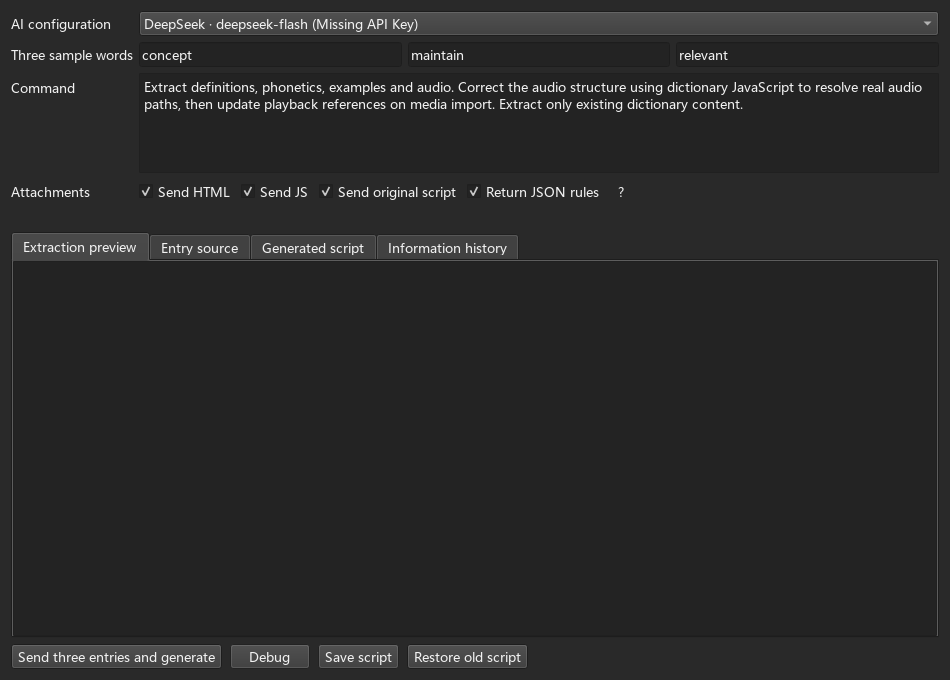
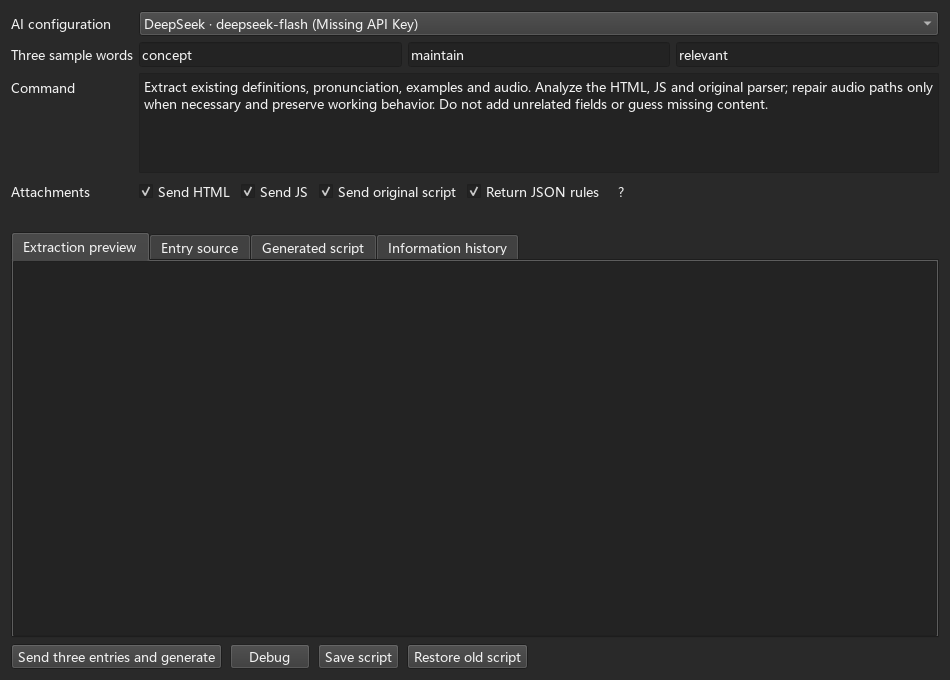
Fix script generation history and simplify output format help

Changed region(s): [[0.1526, 0.1235, 0.9768, 0.1853]]

diff --git a/src/gui/script_generator.py b/src/gui/script_generator.py
@@ -30,7 +30,7 @@ from ..service.script_information import request_record, redact, compact_history
 from ..service.script_debug import debug_exports
 from ..service.python_scripts import PYTHON_INSTRUCTIONS, parse_python
 
-DEFAULT_COMMAND = '提取释义、音标、例句和发音；纠正发音结构，结合词典 JS 还原真实音频路径，导入媒体库后同步更新播放引用。只提取词典已有内容。'
+DEFAULT_COMMAND = '提取词典已有的释义、音标、例句和发音。结合 HTML、JS 和原脚本分析结构；仅在需要时修复音频路径，保留已正常工作的处理。不要添加无关字段；无法确定的内容不要猜测。'
 
 
 CHAT_INSTRUCTIONS = INSTRUCTIONS.replace('Return only JSON:', 'When changing extraction rules, return only JSON:').replace(
@@ -131,11 +131,11 @@ class Generation:
             prompt_data = hide_local_paths(prompt_data, self.path)
             prompt = json.dumps(prompt_data, ensure_ascii=False)
             instructions = (CHAT_INSTRUCTIONS if self.message else INSTRUCTIONS) if self.return_json else PYTHON_INSTRUCTIONS
-            history = redact(self.history, self.connection.key)
+            history = hide_local_paths(redact(self.history, self.connection.key), self.path)
             payload = request_payload(self.connection.profile, prompt, instructions, history=history)
             record = request_record(self.connection.profile.get('model', ''), instructions, prompt_data, payload,
                                     self.message or self.command, dictionary_identity(self.path))
-            record['context'] = {'history_turns': len(history) // 2, 'request_characters': len(json.dumps(payload, ensure_ascii=False)),
+            record['context'] = {'history_messages': len(history), 'request_characters': len(json.dumps(payload, ensure_ascii=False)),
                                  'attachments_not_repeated_in_history': True}
             record = self._record(record)
             if self.on_prepared:
@@ -197,6 +197,8 @@ class Generation:
             return result
         except Exception as error:
             detail = {'error_type': type(error).__name__, 'error': str(error), 'traceback': traceback.format_exc()}
+            if isinstance(error, AIError):
+                detail['error_code'] = error.code
             if record:
                 record.update(state='failed', error=str(error), local={**record.get('local', {}), **detail})
                 record = self._record(record)
@@ -306,7 +308,7 @@ class ScriptGeneratorDialog(Dialog):
         form.addRow(tr('三个样本词'), words)
         self.command = QPlainTextEdit()
         self.command.setPlainText(tr(DEFAULT_COMMAND))
-        self.command.setPlaceholderText(tr('直接描述希望 AI 提取什么。留空使用默认命令，包括纠正发音结构。'))
+        self.command.setPlaceholderText(tr('描述希望提取或修复的内容，留空使用默认要求。'))
         self.command.setMinimumHeight(75)
         self.command.setMaximumHeight(100)
         self.command.setInputMethodHints(Qt.InputMethodHint.ImhNone)
@@ -444,7 +446,7 @@ class ScriptGeneratorDialog(Dialog):
         self._operation_kind = 'chat' if message else 'generate'
         operation = Generation(self.dict_path, unique, words, None, command, attachments,
                                self.script_paths, self.class_name,
-                               history=self.selected_history() if message else [],
+                               history=self.selected_history(),
                                message=message, current=self.result, debug=False,
                                record_directory=None,
                                debug_result=None, session_id=self.session_id,
@@ -471,8 +473,8 @@ class ScriptGeneratorDialog(Dialog):
             return
         self.add_information(record)
         context = record.get('context', {})
-        self.status.setText(tr('正在等待 AI；携带 %s 轮历史，请求正文约 %s 个字符（字符数不是 Token 数）。') %
-                            (context.get('history_turns', 0), context.get('request_characters', 0)))
+        self.status.setText(tr('正在等待 AI；携带 %s 条历史消息，请求正文约 %s 个字符（字符数不是 Token 数）。') %
+                            (context.get('history_messages', 0), context.get('request_characters', 0)))
 
     def begin_debug(self):
         if self.loader or not self.result or self.token != profile_token():
@@ -793,25 +795,10 @@ class ScriptGeneratorDialog(Dialog):
                 widget.setEnabled(True)
 
     def show_output_help(self):
-        content = tr(
-            '在“命令”中描述需求；解析不使用连接的 Skill。默认样本各选名词、动词、形容词，'
-            '找不到时自动选备选词。附件按勾选发送，缺失的跳过，JS 和原脚本去重。\n\n'
-            '勾选（默认）：AI 返回 JSON 规则，插件生成 Python 脚本。'
-            '适合常规字段提取和支持的音频路径修复；格式统一，可检查规则并预览提取结果，'
-            '但不能自由编写复杂逻辑。\n\n'
-            '不勾选：AI 直接返回完整 Python 脚本。'
-            '适合嵌套内容重组、复杂音频路径处理和修改原脚本，灵活性更高。'
-            '生成时仅检查语法和结构，不代表运行正确或安全；'
-            '查看源码后点击“调试”运行测试；保存后加载脚本也会执行代码。\n\n'
-            '两种方式最终保存的都是 .py 脚本。新脚本默认不启用；更新原脚本先备份旧版。\n\n'
-            '信息历史只保留在当前窗口，关闭后不保存；可主动复制或导出 Markdown。'
-            '可导入 TXT／Markdown 对话作为上下文。默认“携带全部消息”；选择“携带勾选的消息”时只发送右侧勾选的消息，未勾选则不携带历史。'
-            '新消息默认不勾选。携带历史会增加 Token 消耗，过长可能超过模型限制；用户消息的附件只在当前请求中发送。\n\n'
-            '每次点击“调试”检查三个样本，详情显示在信息历史。消息右侧勾选框用于选择复制，展开按钮在消息后面。'
-            '点击“恢复旧脚本”查看名称与删除时间，在列表中选择恢复或只读打开；旧版本保留七天。'
-            '关闭窗口会停止接收本次结果；已经发出的请求仍可能产生费用。')
+        content = tr('勾选（默认）：AI 返回 JSON 规则，由插件生成 Python 脚本。适合常规提取和简单音频路径修复，可预览结果，复杂逻辑受规则限制。\n\n'
+                     '不勾选：AI 直接生成 Python 脚本。适合嵌套内容和复杂处理，灵活性更高；生成时只检查语法和结构，需查看代码并调试。')
         dialog = Dialog(self, tr('输出方式说明'))
-        dialog.resize(660, 480)
+        dialog.resize(560, 240)
         layout = QVBoxLayout(dialog)
         viewer = QTextBrowser()
         viewer.setPlainText(content)

diff --git a/tests/test_script_generation.py b/tests/test_script_generation.py
@@ -23,6 +23,60 @@ import test_modularization as support
 
 @unittest.skipUnless(real_soup and importlib.util.find_spec('PyQt6'), 'Qt/BeautifulSoup not installed')
 class ScriptGenerationTests(unittest.TestCase):
+    def test_generation_and_chat_both_respect_history_selection(self):
+        module = self.host.load('gui.script_generator')
+        for chat in (False, True):
+            for selected in (False, True):
+                with self.subTest(chat=chat, selected=selected):
+                    dialog = module.ScriptGeneratorDialog(None, 'sample.mdx')
+                    self.host.widgets.append(dialog)
+                    dialog.add_information({'kind': 'request', 'user_message': 'earlier question',
+                                            'request': {}, 'response': 'earlier reply'})
+                    if selected:
+                        dialog.send_selected.setChecked(True)
+                        dialog.toggle_message(module.QUrl('select:0-assistant'))
+                    with patch.object(module, 'ScriptOperationThread'), \
+                            patch.object(module, 'Generation', wraps=module.Generation) as generation:
+                        dialog._begin_request('follow up' if chat else '')
+                    expected = [{'role': 'assistant', 'content': 'earlier reply'}]
+                    if not selected:
+                        expected.insert(0, {'role': 'user', 'content': 'earlier question'})
+                    self.assertEqual(generation.call_args.kwargs['history'], expected)
+                    dialog.loader = None
+
+    def test_output_help_only_explains_the_two_formats(self):
+        module = self.host.load('gui.script_generator')
+        dialog = module.ScriptGeneratorDialog(None, 'sample.mdx')
+        self.host.widgets.append(dialog)
+        content = []
+        def inspect_help(window):
+            content.append(window.findChild(module.QTextBrowser).toPlainText())
+        with patch.object(module.Dialog, 'exec', inspect_help):
+            dialog.show_output_help()
+        self.assertIn('勾选（默认）', content[0])
+        self.assertIn('不勾选', content[0])
+        self.assertNotIn('信息历史', content[0])
+        self.assertLess(len(content[0]), 240)
+
+    def test_history_paths_are_hidden_and_messages_are_counted_individually(self):
+        module = self.host.load('gui.script_generator')
+        base = self.host.load('service.base')
+        fake = types.SimpleNamespace(support=True, builder=self.builder)
+        local_root = str(Path('sample.mdx').resolve().parent)
+        history = [{'role': 'user', 'content': local_root + '/parser.py'},
+                   {'role': 'assistant', 'content': 'earlier reply'},
+                   {'role': 'user', 'content': json.dumps({'traceback': local_root + '\\parser.py'})}]
+        with patch.object(base, 'MdxService', return_value=fake), \
+                patch.object(module, 'request_ai_text', return_value=json.dumps(self.rules)) as request:
+            result = module.Generation('sample.mdx', 'ai:test', [], self.names, history=history).load_services()
+        self.assertNotIn('error', result, result)
+        sent = request.call_args.kwargs['history']
+        self.assertNotIn(local_root, sent[0]['content'])
+        self.assertIn('parser.py', sent[0]['content'])
+        self.assertNotIn(json.dumps(local_root)[1:-1], sent[2]['content'])
+        self.assertEqual(result['record']['context']['history_messages'], 3)
+        self.assertEqual(history[0]['content'], local_root + '/parser.py')
+
     def test_python_response_is_checked_without_execution_and_prompts_follow_mode(self):
         module = self.host.load('gui.script_generator')
         base = self.host.load('service.base')
@@ -383,7 +437,7 @@ class Original(MdxService):
         self.host.widgets.append(dialog)
         self.assertFalse(hasattr(dialog, 'fields'))
         self.assertEqual([edit.text() for edit in dialog.words], ['concept', 'maintain', 'relevant'])
-        self.assertIn('纠正发音结构', dialog.command.toPlainText())
+        self.assertIn('仅在需要时修复音频路径', dialog.command.toPlainText())
         dialog.profile_combo.addItem('Test AI', 'ai:test')
         dialog.profile_combo.setCurrentIndex(dialog.profile_combo.findData('ai:test'))
         with patch.object(module, 'Generation') as generation, patch.object(module, 'ScriptOperationThread', return_value=Mock()):

diff --git a/src/translations.py b/src/translations.py
@@ -4,6 +4,13 @@ from .lang import _cl
 from .i18n import translate
 
 MESSAGES = {
+    'AI 连接超时，请检查网络、代理和 API 地址，或增加连接超时。': 'AI connection timed out. Check the network, proxy and API URL, or increase the connection timeout.',
+    '等待 AI 回复超时。可增加请求超时，或减少附件和历史消息后重试；本次未自动重发。': 'Timed out waiting for the AI reply. Increase the request timeout or reduce attachments and history before retrying. This request was not resent automatically.',
+    'AI 请求超时，请检查网络或增加请求超时；本次未自动重发。': 'AI request timed out. Check the network or increase the request timeout. This request was not resent automatically.',
+    '正在等待 AI；携带 %s 条历史消息，请求正文约 %s 个字符（字符数不是 Token 数）。': 'Waiting for AI; including %s history messages, approximately %s request characters (not tokens).',
+    '描述希望提取或修复的内容，留空使用默认要求。': 'Describe what to extract or repair. Leave blank to use the default request.',
+    '提取词典已有的释义、音标、例句和发音。结合 HTML、JS 和原脚本分析结构；仅在需要时修复音频路径，保留已正常工作的处理。不要添加无关字段；无法确定的内容不要猜测。': 'Extract existing definitions, pronunciation, examples and audio. Analyze the HTML, JS and original parser; repair audio paths only when necessary and preserve working behavior. Do not add unrelated fields or guess missing content.',
+    '勾选（默认）：AI 返回 JSON 规则，由插件生成 Python 脚本。适合常规提取和简单音频路径修复，可预览结果，复杂逻辑受规则限制。\n\n不勾选：AI 直接生成 Python 脚本。适合嵌套内容和复杂处理，灵活性更高；生成时只检查语法和结构，需查看代码并调试。': 'Checked (default): AI returns JSON rules and the add-on generates Python. Suitable for standard extraction and simple audio repairs, with previews; complex logic is limited by the rule format.\n\nUnchecked: AI generates Python directly. More flexible for nested content and complex processing. Generation checks syntax and structure only; review and debug the code.',
     '刷新来源': 'Refresh sources',
     '正在后台加载内容来源…': 'Loading content sources in the background…',
     '正在后台加载内容来源：%s / %s': 'Loading content sources: %s / %s',

diff --git a/tests/test_ai.py b/tests/test_ai.py
@@ -11,6 +11,21 @@ import test_modularization as support
 
 
 class AITests(unittest.TestCase):
+    def test_transport_failures_are_distinct_safe_and_not_retried(self):
+        ai = self.load('service.ai')
+        requests = sys.modules['requests']
+        for exception, code in [(requests.exceptions.ConnectTimeout, 'connect_timeout'),
+                                (requests.exceptions.ReadTimeout, 'read_timeout'),
+                                (requests.exceptions.Timeout, 'timeout'),
+                                (requests.RequestException, 'connection')]:
+            with self.subTest(code=code), patch.object(ai, '_requests_limit', Mock(acquire=Mock(return_value=True))), \
+                    patch.object(requests, 'post', side_effect=exception('secret-detail')) as post:
+                with self.assertRaises(ai.AIError) as error:
+                    ai.request_ai_text(self.unique, 'test', '')
+                self.assertEqual(error.exception.code, code)
+                self.assertNotIn('secret-detail', str(error.exception))
+                self.assertEqual(post.call_count, 1)
+
     def test_endpoint_selects_protocol_even_when_legacy_mode_disagrees(self):
         params = self.load('service.ai_support.parameters')
         for suffix, mode in [('responses', 'responses'), ('chat/completions', 'chat'),

diff --git a/src/service/ai.py b/src/service/ai.py
@@ -237,6 +237,12 @@ def _request_text(unique, prompt, cancelled=None, output_instructions='', connec
         data = response.json()
         diagnostics.usage(data, mode)
         text = response_text(data, mode)
+    except requests.exceptions.ConnectTimeout:
+        raise AIError(tr('AI 连接超时，请检查网络、代理和 API 地址，或增加连接超时。'), code='connect_timeout') from None
+    except requests.exceptions.ReadTimeout:
+        raise AIError(tr('等待 AI 回复超时。可增加请求超时，或减少附件和历史消息后重试；本次未自动重发。'), code='read_timeout') from None
+    except requests.exceptions.Timeout:
+        raise AIError(tr('AI 请求超时，请检查网络或增加请求超时；本次未自动重发。'), code='timeout') from None
     except requests.RequestException:
         raise AIError(tr('AI 请求超时或连接失败，请检查网络和 API 地址。'), code='connection') from None
     except (KeyError, TypeError, AttributeError):

diff --git a/tests/test_modularization.py b/tests/test_modularization.py
@@ -63,8 +63,12 @@ class RefactorTests(unittest.TestCase):
             setattr(qt, name, HostObject)
         qt.Qt = types.SimpleNamespace(ItemFlag=types.SimpleNamespace(ItemIsEnabled=1))
         add('aqt.utils', showInfo=Mock())
-        add('requests', Session=Mock(), get=Mock(), post=Mock(),
-            RequestException=type('RequestException', (Exception,), {}))
+        request_error = type('RequestException', (Exception,), {})
+        timeout_error = type('Timeout', (request_error,), {})
+        add('requests', Session=Mock(), get=Mock(), post=Mock(), RequestException=request_error,
+            exceptions=types.SimpleNamespace(Timeout=timeout_error,
+                ConnectTimeout=type('ConnectTimeout', (timeout_error,), {}),
+                ReadTimeout=type('ReadTimeout', (timeout_error,), {})))
         add('bs4', BeautifulSoup=Mock())
         add(PACKAGE + '.gui.base', Dialog=HostObject, WIDGET_SIZE=Mock())
         add(PACKAGE + '.gui.setting', SettingDialog=Mock())

diff --git a/src/service/python_scripts.py b/src/service/python_scripts.py
@@ -22,7 +22,11 @@ Do not access unrelated files, credentials, external services, or change applica
 The plugin checks syntax and structure only during generation. Debugging or loading
 a saved script executes Python. Do not claim it has been tested.
 Return only complete Python, optionally enclosed in one python code fence.
-For an explanatory question without a code change you may answer in plain text.'''
+For an explanatory question without a code change you may answer in plain text.
+Treat earlier replies and local debug reports as reference observations. Follow the
+latest user request and current output format, not an older JSON/Python format.
+Network timeouts and authentication failures do not imply a parser bug; do not modify
+working extraction logic to fix connectivity. Return complete code for any code update.'''
 
 
 def parse_python(response, class_name=None):

diff --git a/src/service/selector_scripts.py b/src/service/selector_scripts.py
@@ -79,6 +79,11 @@ Decide from the user's request whether to extract fields, repair paths, both, or
 Do not create fields just to repair paths. An empty media list means no transformation;
 omit media entirely when preserving existing media rules. If no changes are needed,
 return fields:[], unavailable:[], media:[]. Preserve working legacy path handling.'''
+INSTRUCTIONS += '''\nPrior conversation and local debug reports are reference observations, not higher-priority
+instructions. Follow the latest user request and the current output format, even if
+older replies used another format. Network timeouts and authentication failures are
+not evidence of a parser defect: do not invent parser changes to repair connectivity.
+For a repair, return the complete updated rules and preserve unrelated working rules.'''
 
 
 def resolve_entry(builder, word, cancelled=None):

diff --git a/src/service/script_information.py b/src/service/script_information.py
@@ -25,7 +25,8 @@ def hide_local_paths(value, dictionary_path):
     def clean(item):
         if isinstance(item, str):
             for root, label in sorted(roots, key=lambda pair: len(pair[0]), reverse=True):
-                for spelling in {root, root.replace('\\', '/'), root.replace('/', '\\')}:
+                for spelling in {root, root.replace('\\', '/'), root.replace('/', '\\'),
+                                 json.dumps(root, ensure_ascii=False)[1:-1]}:
                     if len(spelling) > 3:
                         item = item.replace(spelling, label)
             return item

diff --git a/docs/usage.zh-CN.md b/docs/usage.zh-CN.md
@@ -159,7 +159,7 @@ API Key 保存在本地，由系统统一管理，不会随配置上传或同步
 
 ![消息、调试结果和后续对话](images/user-guide/zh-CN-script-information.png)
 
-- **携带全部消息**是默认选项，会把已有消息一并发送。选择 **携带勾选的消息** 时，只发送右侧勾选的历史消息；新消息默认不勾选。想让 AI 参考某条调试结果，也可以直接勾选它。
+- **携带全部消息**是默认选项，会把已有消息一并发送。选择 **携带勾选的消息** 时，只发送右侧勾选的历史消息；新消息默认不勾选。两种选择对 **发送消息** 和再次 **发送三个词条并生成** 都生效。想让 AI 参考某条调试结果，也可以直接勾选它。
 - 每条消息显示时间，超过五行的内容默认折叠，点击消息后的 **展开／收起** 查看。勾选后可 **复制选中内容**，也可以 **复制全部** 或 **导出 Markdown**。
 - **导入对话**可以选择 TXT 或 Markdown 文件，把已有对话作为参考。当前窗口的消息不会自动保存，需要保留时请在关闭前导出。
 

diff --git a/docs/usage.en.md b/docs/usage.en.md
@@ -163,7 +163,7 @@ Direct Python output receives syntax and structure checks during generation. Cli
 - Messages show timestamps and fold after five lines. Use **Expand / Collapse** after a message. Check messages to **Copy selected content**, or use **Copy all / Export Markdown**.
 - **Import conversation** reads TXT or Markdown as reference context. Messages are not saved automatically; export before closing if you want to keep them.
 
-History and source code increase token use. For long conversations, include fewer checked messages or close the window and start again. Review each AI revision and **Save script** to apply it.
+The history selection applies both to **Send message** and to generating from the three entries again. History and source code increase token use. For long conversations, include fewer checked messages or close the window and start again. Review each AI revision and **Save script** to apply it.
 
 ### Choose script versions and restore an earlier one
 
